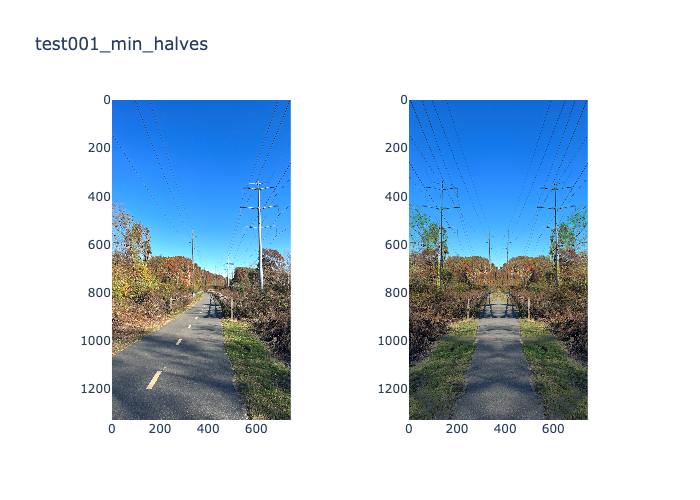
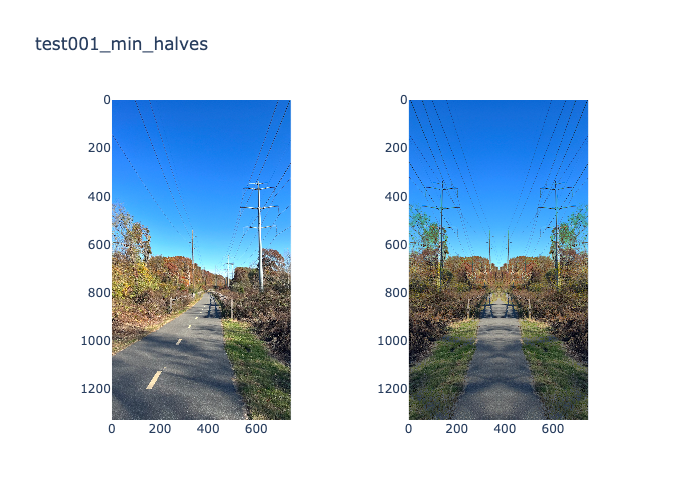
repair bug in func_apply_to_halves, regenerate images

diff --git a/src/Spirals/spiral.py b/src/Spirals/spiral.py
@@ -5,6 +5,7 @@ from plotly.subplots import make_subplots
 import plotly.graph_objects as go
 from typing import Callable
 
+
 THIS_DIR = os.path.dirname(os.path.abspath(__file__))
 
 
@@ -64,16 +65,18 @@ def stack_pixels(arr1: np.ndarray, arr2: np.ndarray):
     return np.append(arr1, arr2).reshape(2, *arr1.shape)
 
 
-def func_apply_to_halves(arr: np.ndarray, func: Callable, preprocessing_func=stack_pixels, postprocessing_func= lambda x:x):
+def func_apply_to_halves(arr: np.ndarray, preprocessing_func=stack_pixels, func: Callable = lambda x:x, postprocessing_func= lambda x:x):
     h, w, c = arr.shape
 
     left_half_idx_end = (w//2)+1
     right_half_idx_start = -left_half_idx_end
 
     left_half = arr.copy()[:, :left_half_idx_end, :]
-    right_half = arr.copy()[:, right_half_idx_start:, :]
-    proc_arr = postprocessing_func(func(preprocessing_func(left_half, right_half)))
-    new_arr = np.append(proc_arr, proc_arr[:, ::-1, :], axis=1)
+    right_half = np.flip(arr.copy()[:, right_half_idx_start:, :], axis=1)
+    preproc_arr = preprocessing_func(left_half, right_half)
+    func_applied_arr = func(preproc_arr)
+    postproc_arr = postprocessing_func(func_applied_arr)
+    new_arr = np.append(postproc_arr, np.flip(postproc_arr[:, :, :], axis=1), axis=1)
 
     return new_arr
 
@@ -114,7 +117,12 @@ def min_of_all_channels_halves(arr: np.ndarray):
     :param arr:
     :return:
     """
-    return func_apply_to_halves(arr, func=np.min)
+    return func_apply_to_halves(
+        arr,
+        preprocessing_func=lambda x, y: np.append(x[:, :, :3], y[:, :, :3], axis=2),
+        func=lambda x: np.min(x, axis=2),
+        postprocessing_func=lambda x: np.repeat(x.reshape(*x.shape, 1), 3, axis=2)
+    )
 
 
 def max_of_all_channels_halves(arr: np.ndarray):
@@ -124,7 +132,12 @@ def max_of_all_channels_halves(arr: np.ndarray):
     :param arr:
     :return:
     """
-    return func_apply_to_halves(arr, func=lambda x: np.max(x, axis=2), preprocessing_func=lambda x,y: np.append(x, y, axis=2), postprocessing_func= lambda x: x.reshape(*x.shape,1))
+    return func_apply_to_halves(
+        arr,
+        preprocessing_func=lambda x,y: np.append(x[:, :, :3], y[:, :, :3], axis=2),
+        func=lambda x: np.max(x, axis=2),
+        postprocessing_func= lambda x: np.repeat(x.reshape(*x.shape,1), 3, axis=2)
+    )
 
 
 def min_halves(arr: np.ndarray):
@@ -152,7 +165,7 @@ if __name__=="__main__":
 
     funcs = [mirror_right_over_left, mirror_left_over_right, flip_horizontal, average_halves, average_halves_glitched,
      sum_halves, min_of_all_channels_halves, min_halves, max_of_all_channels_halves, max_halves]
-    funcs = [max_of_all_channels_halves]
+    # funcs = [max_halves]
 
     for func in funcs:
         print(f"applying function {func.__name__}")
